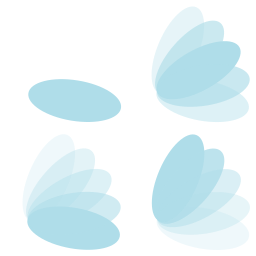
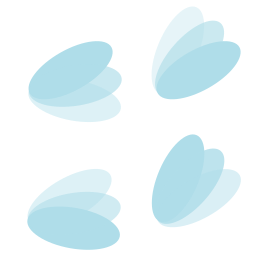
Better animation

diff --git a/datasrc/mods/example_physics_3/main.js b/datasrc/mods/example_physics_3/main.js
@@ -35,11 +35,17 @@ function OnRender(clientLocalTime, intraTick)
     var cores = TwPhysGetCores();
 
     const wingAnimSS = [
-        { x1: 0.5, y1: 0.0 },
         { x1: 0.5, y1: 0.5 },
         { x1: 0.5, y1: 0.0 },
         { x1: 0.0, y1: 0.5 },
+        { x1: 0.0, y1: 0.0 },
     ];
+    /*
+    const wingAnimSS = [
+        { x1: 0.5, y1: 0.5 },
+        { x1: 0.0, y1: 0.5 },
+    ];
+    */
 
     game.bees.forEach(function(bee) {
         var core1 = cores[bee.core1ID];
@@ -76,7 +82,7 @@ function OnRender(clientLocalTime, intraTick)
         // wing
         var wingOffset = vec2Rotate(vec2(15, -55), beeAngle);
         var wingSize = 150;
-        var wingAnim = wingAnimSS[Math.floor(clientLocalTime * 20) % 4];
+        var wingAnim = wingAnimSS[Math.floor(clientLocalTime * 40) % wingAnimSS.length];
         TwRenderSetTexture(TwGetModTexture("bee_wing_anim"));
         TwRenderSetQuadSubSet(wingAnim.x1, wingAnim.y1, wingAnim.x1 + 0.5, wingAnim.y1 + 0.5);
         TwRenderSetQuadRotation(beeAngle);
